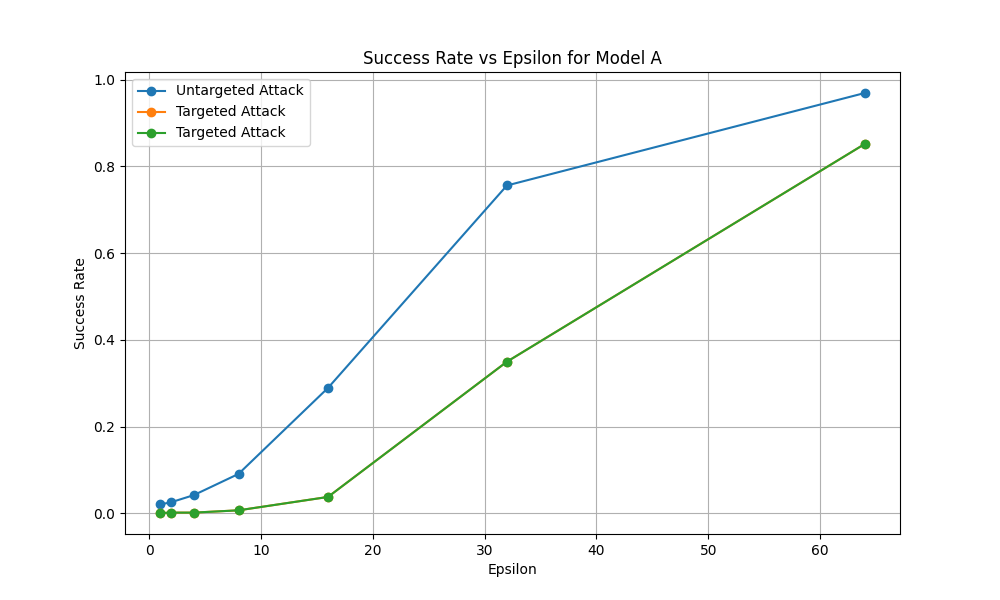
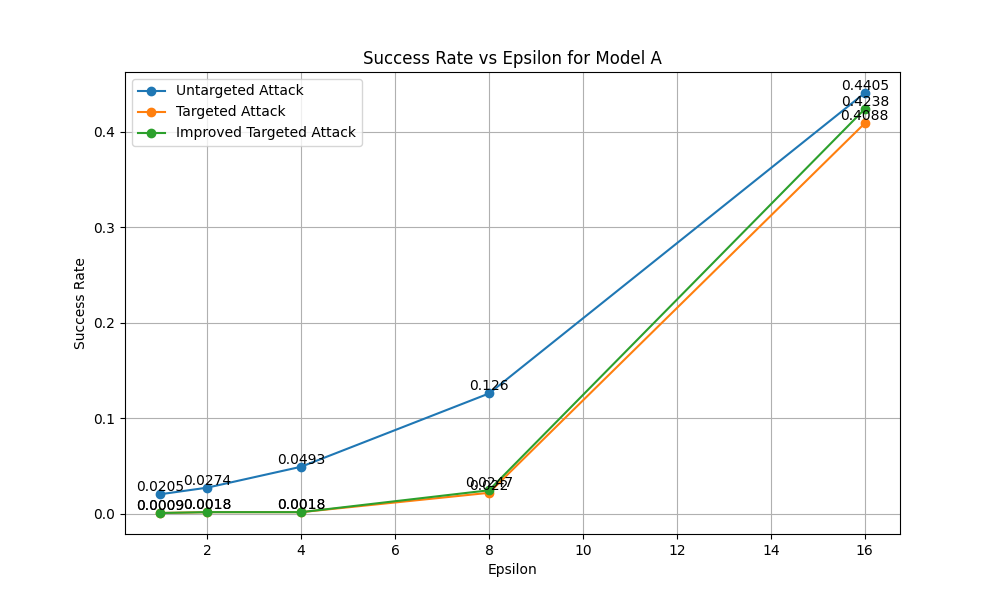
add improved target attack

diff --git a/HW3/handout/code/deliverable6/attack.py b/HW3/handout/code/deliverable6/attack.py
@@ -42,8 +42,6 @@ def evaluate_attack_success_rate(model, adv_examples, true_labels, target_class=
         
         if len(adv_examples) == 0:
             return 0.0
-    
-
 
     with torch.no_grad():
         outputs = model(adv_examples)
@@ -135,7 +133,7 @@ test(modelB,x_test,y_test,512)
 
 #untargeted attack
 #you may add parameters as you wish
-def untargeted_attack(model, images, labels, epsilon=2, iters=20):
+def untargeted_attack(model, images, labels, epsilon=2, iters=20, alpha = 1.0):
     model.eval()
 
     perturbed_images = images.detach().clone()
@@ -148,7 +146,7 @@ def untargeted_attack(model, images, labels, epsilon=2, iters=20):
         loss.backward()
         sign_data_grad = perturbed_images.grad.sign()
         with torch.no_grad():
-            perturbed_images = perturbed_images + epsilon * sign_data_grad
+            perturbed_images = perturbed_images + alpha * sign_data_grad
             perturbed_images = torch.clamp(perturbed_images, 0, 255)
             perturbed_images = torch.clamp(perturbed_images - images, min=-epsilon, max=epsilon) + images
             perturbed_images = torch.clamp(perturbed_images, 0, 255).detach().clone()
@@ -158,7 +156,7 @@ def untargeted_attack(model, images, labels, epsilon=2, iters=20):
 
 #targeted attack
 #you may add parameters as you wish
-def targeted_attack(model, images, labels, target_class, epsilon=2, iters=100):
+def targeted_attack(model, images, labels, target_class, epsilon=2, iters=100, alpha=1.0):
     model.eval()
     
     mask = labels == 1
@@ -169,66 +167,147 @@ def targeted_attack(model, images, labels, target_class, epsilon=2, iters=100):
     for _ in range(iters):
         perturbed_images.requires_grad = True
         outputs = model(perturbed_images)
-        pred=torch.argmax(outputs,dim=1)
         model.zero_grad()
         loss = F.cross_entropy(outputs, target_labels)
         loss.backward()
 
         sign_data_grad = perturbed_images.grad.data
         with torch.no_grad():
-            perturbed_images = perturbed_images - epsilon * sign_data_grad.sign()
-            perturbed_images = torch.clamp(perturbed_images - images_to_attack, min=-epsilon, max=epsilon) + images_to_attack
+            perturbed_images = perturbed_images - alpha * sign_data_grad.sign()
+            perturbed_images = torch.clamp(perturbed_images, min=images_to_attack-epsilon, max=images_to_attack+epsilon)
             perturbed_images = torch.clamp(perturbed_images, 0, 255)
             perturbed_images = perturbed_images.detach().clone()
     
+    perturbed_images.requires_grad = False
     return_images = images.detach().clone()
     return_images[mask] = perturbed_images
     return return_images
          
 #improved targeted attack 
 #you may add parameters as you wish
-def targeted_attack_improved(model, images, labels, target_class, epsilon=0.03, iters=50, decay_factor=1.0):
+def targeted_attack_improved(model, images, labels, target_class, epsilon=0.03, iters=300, alpha=1.0):
     model.eval()
-    perturbed_images = images.detach().clone()
-    target_labels = torch.full_like(labels, target_class)  # Create a tensor of the target class labels
+    mask_1 = labels == 1
+    images_to_attack = images[mask_1].detach().clone()
+    labels_to_attack = labels[mask_1].detach().clone()
+    perturbed_images = images_to_attack.detach().clone()
+    perturbations = []
+    labels = []
+    epsilon_large = 128
+    attack_perturbation = {}
+    for i in range(images_to_attack.shape[0]):
+        print(f"Image:{i}")
+        image = images_to_attack[i]
 
-    m=torch.zeros(perturbed_images.shape)
-    v=torch.zeros(perturbed_images.shape)
-
-    for i in range(iters): # PGD
-        perturbed_images.requires_grad = True
-        outputs = model(perturbed_images)
-        loss = F.cross_entropy(outputs, target_labels)
-        model.zero_grad()
-        loss.backward()
-        grads = perturbed_images.grad
-        with torch.no_grad():
-            t=i+1
-            m=0.9*m+0.1*grads
-            v=0.999*v+0.001*grads*grads
-            mhat=m/(1.0 - 0.9**t)
-            vhat=v/(1.0 - 0.999**t)
-            grads=mhat / (torch.sqrt(vhat) + 1e-8)
-            perturbed_images = perturbed_images - epsilon*grads.sign()
-            perturbed_images = torch.clamp(perturbed_images - images, min=-epsilon, max=epsilon) + images
+        perturbation = torch.zeros((1, images.shape[1], images.shape[2], images.shape[3]), requires_grad=True)
+        optimizer = torch.optim.Adam([perturbation], lr=1)
+        for _ in range(300):
+            optimizer.zero_grad()
+            
+            # Apply perturbations within epsilon constraints
+            perturbed_images = image + perturbation
             perturbed_images = torch.clamp(perturbed_images, 0, 255)
-            perturbed_images = perturbed_images.detach().clone()
+            perturbed_images = torch.clamp(perturbed_images - image, min=-epsilon_large, max=epsilon_large) + image
+            
+            outputs = model(perturbed_images)
+            loss = F.cross_entropy(outputs, torch.tensor([8]))
+            loss.backward()            
+            optimizer.step()
+            label = torch.argmax(outputs).item()
 
-    return perturbed_images
+            # Project the perturbations to ensure they are within the epsilon ball after update
+            perturbation.data = torch.clamp(perturbation, min=-epsilon_large, max=epsilon_large)
+            if label == 8:
+                attack_perturbation[i] = perturbation.detach().clone()
+                break
+    attack_success_amt = len(attack_perturbation)
+    print(f"Epsilon:{epsilon} -> {attack_success_amt}")
+
+    
+    perturbed_images = images_to_attack.detach().clone()
+    for i in range(perturbed_images.shape[0]):
+        print(f"Revise images:{i}")
+        temp_image = perturbed_images[i].detach().clone()
+        if i in attack_perturbation:
+            perturbation = attack_perturbation[i]
+            for _ in range(iters):
+                temp_image = temp_image + perturbation * 0.1
+                temp_image = torch.clamp(temp_image - perturbed_images[i].detach().clone(), min=-epsilon, max=epsilon) + perturbed_images[i].detach().clone()
+                temp_image = torch.clamp(temp_image, 0, 255)
+                
+                outputs = model(temp_image)
+                label = torch.argmax(outputs).item()
+
+                if label == 8:
+                    perturbed_images[i] = temp_image.detach().clone()
+                    break
+    
+    return_images = images.detach().clone()
+    return_images[mask_1] = perturbed_images
+
+    return return_images
+
+
+    
+
+
+    # mask_1 = labels == 1
+    # mask_8 = labels == 8
+    # images_label_8 = images[mask_8]
+    # # chosen_image_8 = images_label_8[torch.randint(len(images_label_8), (1,))].clone()
+    
+
+    # images_to_attack = images[mask_1].detach().clone()
+    # labels_to_attack = labels[mask_1].detach().clone()
+    # perturbed_images = images_to_attack.detach().clone()
+    # target_labels = torch.full_like(labels_to_attack, target_class)
+
+    # # perturbed_images = perturbed_images + chosen_image_8
+    # perturbed_images = torch.clamp(perturbed_images, 0, 255)
+
+    # m=torch.zeros(perturbed_images.shape)
+    # v=torch.zeros(perturbed_images.shape)
+
+    # for i in range(iters): # PGD
+    #     perturbed_images.requires_grad = True
+    #     outputs = model(perturbed_images)
+    #     loss = F.cross_entropy(outputs, target_labels)
+    #     model.zero_grad()
+    #     loss.backward()
+    #     grads = perturbed_images.grad
+    #     with torch.no_grad():
+    #         t=i+1
+    #         m=0.9*m+0.1*grads
+    #         v=0.999*v+0.001*grads*grads
+    #         mhat=m/(1.0 - 0.9**t)
+    #         vhat=v/(1.0 - 0.999**t)
+    #         grads=mhat / (torch.sqrt(vhat) + 1e-8)
+
+    #         perturbed_images = perturbed_images - alpha * grads.sign()
+    #         perturbed_images = torch.clamp(perturbed_images, min=images_to_attack-epsilon, max=images_to_attack+epsilon)
+    #         perturbed_images = torch.clamp(perturbed_images, 0, 255)
+    #         perturbed_images = perturbed_images.detach().clone()
+
+    # perturbed_images.requires_grad = False
+    # return_images = images.detach().clone()
+    # return_images[mask_1] = perturbed_images
+
+    return return_images
 
 #evaluate performance of attacks
 	#TODO
 
-# models = [modelA, modelB]
 models = [modelA, modelB]
+# models = [modelB]
+# model_names = ['Model B']
 model_names = ['Model A', 'Model B']
-# model_names = ['Model A', 'Model B']
+# attacks = [targeted_attack_improved]
 attacks = [untargeted_attack, targeted_attack, targeted_attack_improved]
-# attacks = [untargeted_attack, targeted_attack, targeted_attack_improved]
+# attack_names = ['Improved Targeted Attack']
 attack_names = ['Untargeted Attack', 'Targeted Attack', 'Improved Targeted Attack']
-# attack_names = ['Untargeted Attack', 'Targeted Attack', 'Improved Targeted Attack']
-epsilons = [i for i in range(1, 17)]
-epsilons = [1,2,4,8,16]
+# epsilons = [i for i in range(1, 17)]
+epsilons = [1,2,4,8,16,32]
+# epsilons = [8,16]
 
 # Placeholder for success rates
 success_rates = np.zeros((len(models), len(attacks), len(epsilons)))
@@ -254,6 +333,7 @@ for i, model in enumerate(models):
             test(model, adv_examples, y_test, 512)
             success_rates[i, j, k] = success_rate
             print(f"Attack Success Rate:{success_rate}")
+            # print(f"Attack Fail Rate:{fail_rate}")
             
     print("\n")
 
@@ -263,9 +343,7 @@ for i in range(len(models)):
     for j in range(len(attacks)):
         plt.plot(epsilons, success_rates[i, j, :], marker='o', label=attack_names[j])
         for x, y in zip(epsilons, success_rates[i, j, :]):
-            # Place the success rate value above each point
-            # The `str(round(y, 2))` rounds the success rate to 2 decimal places for clarity
-            plt.text(x, y, str(round(y, 2)), color="black", ha='center', va='bottom')
+            plt.text(x, y, str(round(y, 4)), color="black", ha='center', va='bottom')
     plt.title(f'Success Rate vs Epsilon for {model_names[i]}')
     plt.xlabel('Epsilon')
     plt.ylabel('Success Rate')
